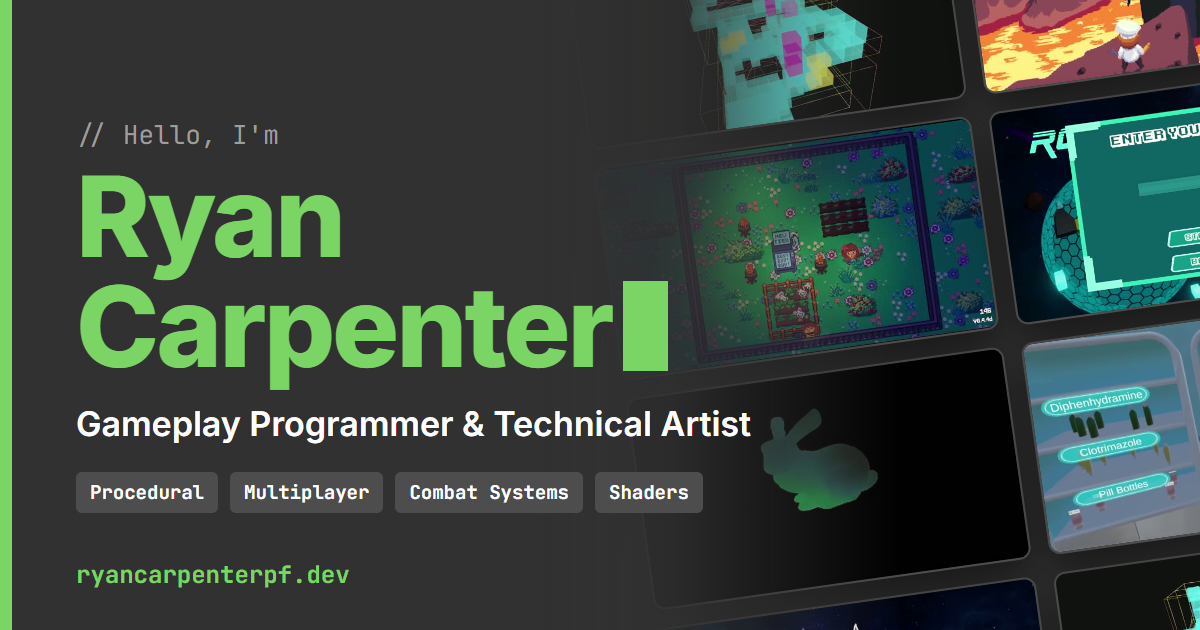
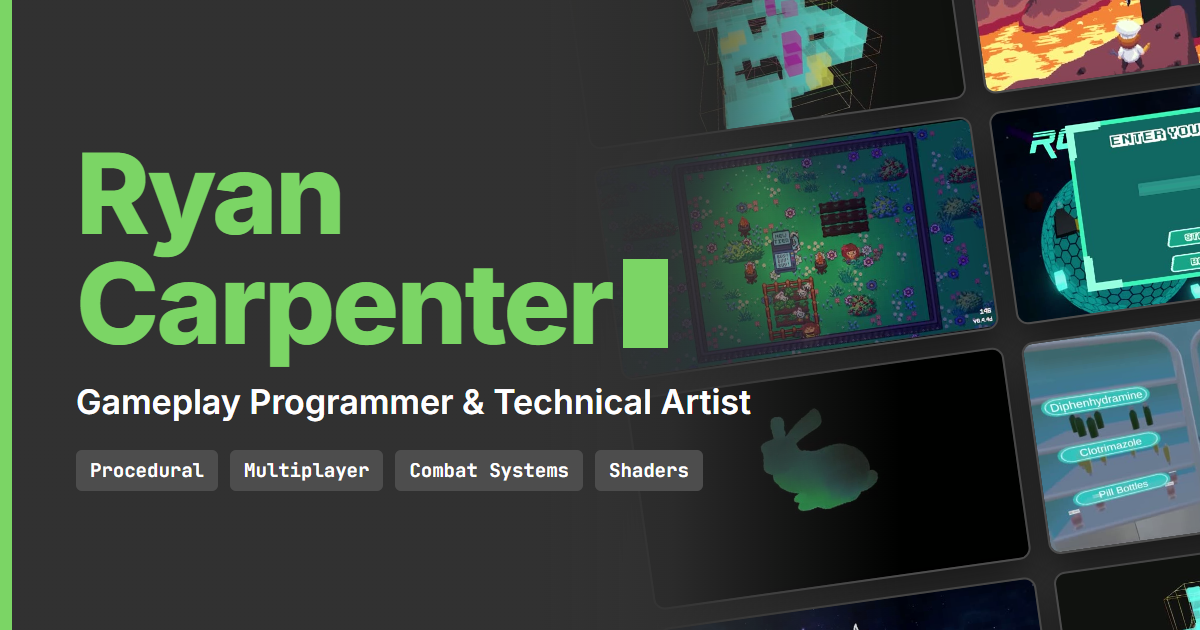
Drop the greeting and domain from the preview card

diff --git a/source-media/og-image.html b/source-media/og-image.html
@@ -16,7 +16,6 @@
     --color-surface: #4d4d4d;
     --color-accent: #7bd565;
     --color-text: #ffffff;
-    --color-text-secondary: #9f9c9c;
   }
 
   * { box-sizing: border-box; margin: 0; }
@@ -87,14 +86,8 @@
     justify-content: center;
   }
 
-  .comment {
-    font-family: 'JetBrains Mono', monospace;
-    font-size: 26px;
-    color: var(--color-text-secondary);
-  }
-
   h1 {
-    margin: 10px 0 22px;
+    margin: 0 0 22px;
     font-size: 112px;
     font-weight: 800;
     line-height: 0.98;
@@ -132,16 +125,6 @@
     font-size: 19px;
     font-weight: 700;
   }
-
-  .url {
-    position: absolute;
-    left: 76px;
-    bottom: 40px;
-    font-family: 'JetBrains Mono', monospace;
-    font-size: 24px;
-    font-weight: 700;
-    color: var(--color-accent);
-  }
 </style>
 </head>
 <body>
@@ -159,7 +142,6 @@
   <div class="accent-bar"></div>
 
   <div class="text">
-    <p class="comment">// Hello, I'm</p>
     <h1>Ryan<br>Carpenter<span class="caret"></span></h1>
     <p class="role">Gameplay Programmer &amp; Technical Artist</p>
     <div class="chips">
@@ -169,7 +151,5 @@
       <span class="chip">Shaders</span>
     </div>
   </div>
-
-  <p class="url">ryancarpenterpf.dev</p>
 </body>
 </html>
